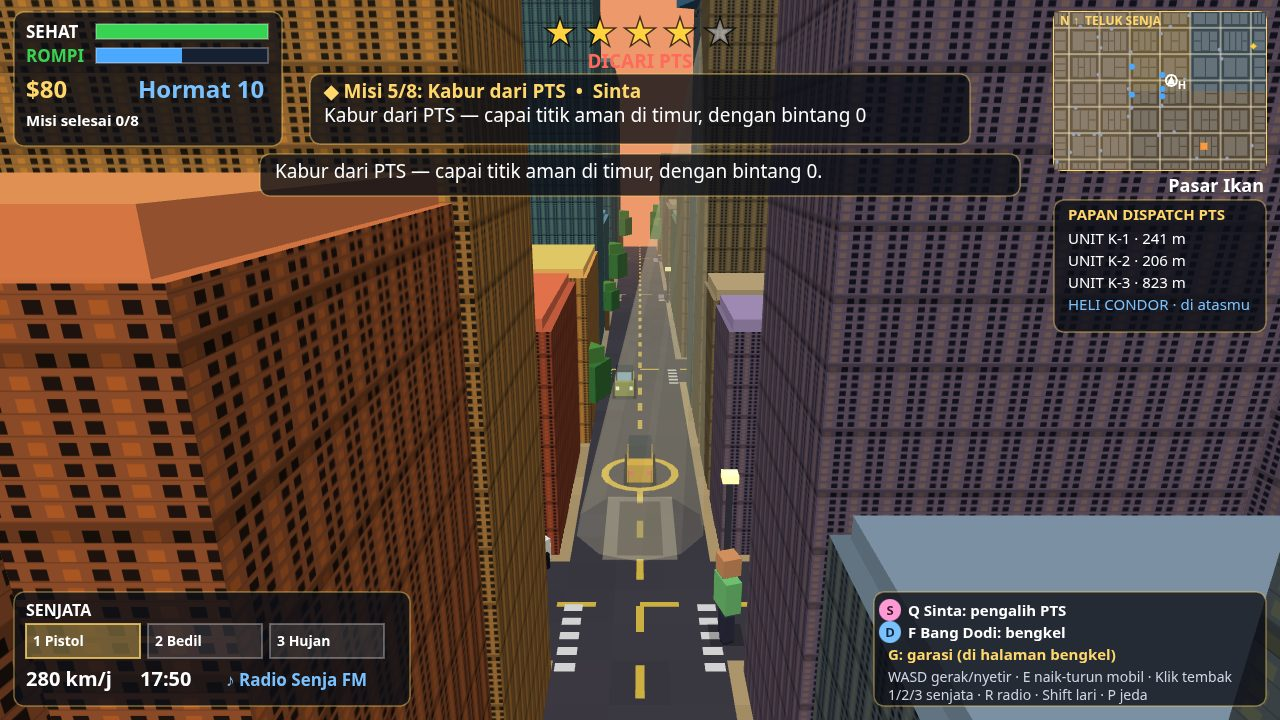
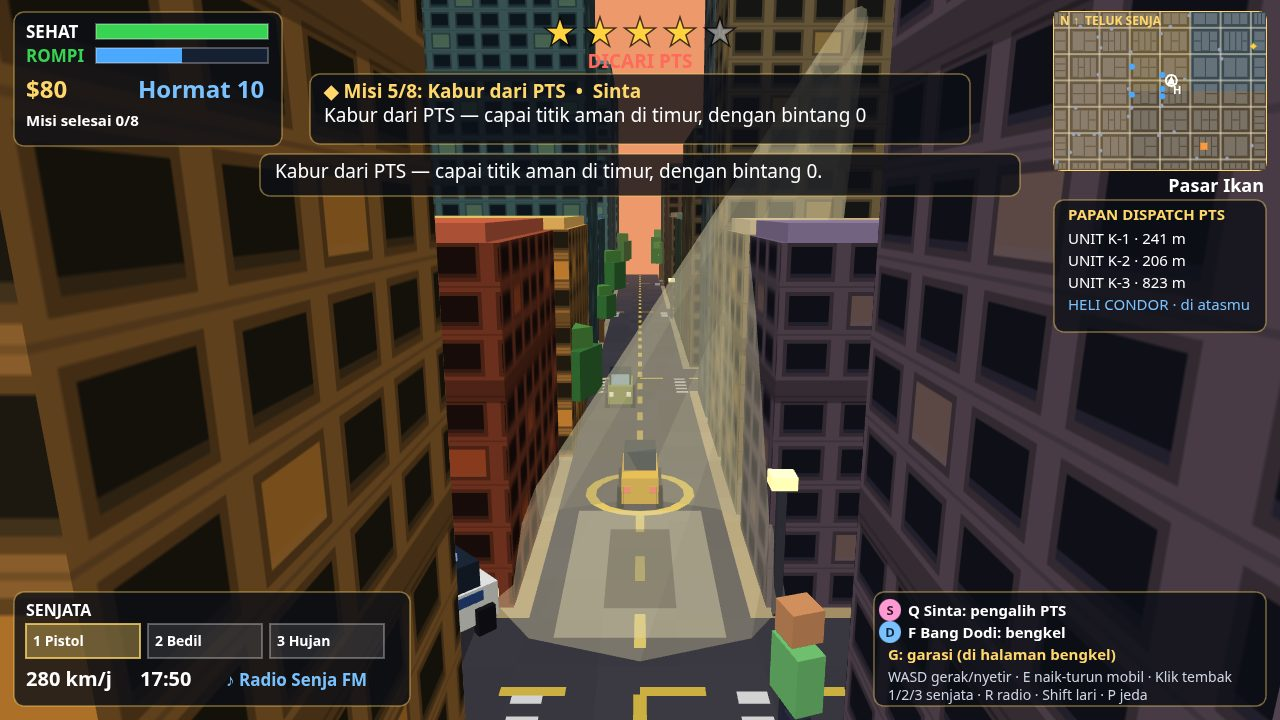
Camera framing polish: closer third-person camera, larger windows, visible searchlight cone

diff --git a/game/src/gl3d.js b/game/src/gl3d.js
@@ -148,10 +148,12 @@ export class Geo {
     const topColor = opt.top || shade(color, 1.18);
     const sideColor = opt.sides || color;
     // Window repeats are per face, from that face's real size, so the
-    // grid stays square on every side of a building.
-    const uvU = opt.tex ? (sx * SCALE) / 26 : 1;
-    const uvX = opt.tex ? (sz * SCALE) / 26 : 1;
-    const uvV = opt.tex ? (sy * SCALE) / 26 : 1;
+    // grid stays square on every side of a building. One texture tile
+    // spans 130 world units, so a window reads about 32 world units
+    // wide — building scale, not a dot grid.
+    const uvU = opt.tex ? (sx * SCALE) / 130 : 1;
+    const uvX = opt.tex ? (sz * SCALE) / 130 : 1;
+    const uvV = opt.tex ? (sy * SCALE) / 130 : 1;
     const tex = opt.tex ? 1 : 0;
     const emis = opt.emis || 0; const alpha = opt.alpha ?? 1;
     const uvZ = [[0, 0], [uvU, 0], [uvU, uvV], [0, uvV]];
@@ -244,20 +246,27 @@ function makeFacadeTexture(gl) {
   const cv = document.createElement('canvas');
   cv.width = 256; cv.height = 256;
   const ctx = cv.getContext('2d');
-  ctx.fillStyle = '#cfc8bb';
+  ctx.fillStyle = '#c9c0ae';
   ctx.fillRect(0, 0, 256, 256);
-  // Deterministic window grid: 6 columns x 8 rows, some lit.
-  for (let r = 0; r < 8; r++) {
-    for (let c = 0; c < 6; c++) {
-      const lit = ((c * 7 + r * 3) % 3) === 0;
+  // Large windows: 4 columns x 5 rows per tile. One tile spans a wide
+  // facade (see Geo.box UV repeats), so windows read at building scale
+  // instead of dissolving into a dot grid.
+  for (let r = 0; r < 5; r++) {
+    for (let c = 0; c < 4; c++) {
+      const lit = (c === 1 && r === 1) || (c === 2 && r === 3);
+      ctx.fillStyle = '#8d867a';
+      ctx.fillRect(6 + c * 62, 4 + r * 48, 48, 38);
       ctx.fillStyle = lit ? '#ffe9a8' : '#2b313c';
-      ctx.fillRect(10 + c * 42, 8 + r * 31, 24, 19);
+      ctx.fillRect(10 + c * 62, 8 + r * 48, 40, 30);
+      ctx.fillStyle = 'rgba(255,255,255,0.25)';
+      ctx.fillRect(10 + c * 62, 8 + r * 48, 40, 4);
     }
-    ctx.fillStyle = 'rgba(0,0,0,0.18)';
-    ctx.fillRect(0, r * 32, 256, 2);
+    ctx.fillStyle = 'rgba(0,0,0,0.16)';
+    ctx.fillRect(0, r * 48 + 46, 256, 2);
   }
-  ctx.fillStyle = 'rgba(0,0,0,0.25)';
-  ctx.fillRect(0, 224, 256, 32);
+  // Darker ground-floor band.
+  ctx.fillStyle = 'rgba(0,0,0,0.28)';
+  ctx.fillRect(0, 232, 256, 24);
   const tex = gl.createTexture();
   gl.bindTexture(gl.TEXTURE_2D, tex);
   gl.texImage2D(gl.TEXTURE_2D, 0, gl.RGBA, gl.RGBA, gl.UNSIGNED_BYTE, cv);
@@ -326,12 +335,16 @@ function buildStatic(city) {
     const w3 = b.w / SCALE; const d3 = b.h / SCALE;
     const h3 = 2 + b.height * 3.0;
     const base = hexRgb(b.color);
+    // Vary facade brightness per building so neighbouring blocks do
+    // not read as one flat, identical wall.
+    const tint = 0.86 + hash2(b.x | 0, b.y | 0) * 0.26;
+    const tinted = [base[0] * tint, base[1] * tint, base[2] * tint];
     const cx = wx(b.x + b.w / 2); const cz = wz(b.y + b.h / 2);
-    geo.box(cx, h3 / 2, cz, w3, h3, d3, 0, base, {
-      tex: true, uvU: Math.max(1, Math.round(b.w / 26)), uvV: Math.max(1, Math.round((h3 * SCALE) / 26)),
+    geo.box(cx, h3 / 2, cz, w3, h3, d3, 0, tinted, {
+      tex: true, uvU: Math.max(1, Math.round(b.w / 130)), uvV: Math.max(1, Math.round((h3 * SCALE) / 130)),
     });
     // Roof parapet: a thin lighter slab on top.
-    geo.box(cx, h3 + 0.12, cz, w3 * 0.96, 0.24, d3 * 0.96, 0, shade(base, 1.25), {});
+    geo.box(cx, h3 + 0.12, cz, w3 * 0.96, 0.24, d3 * 0.96, 0, shade(tinted, 1.25), {});
   }
   // Props.
   for (const pr of city.props) {
@@ -388,9 +401,9 @@ function cameraTarget(state) {
   const heading = driving ? p.car.angle : p.angle;
   return {
     heading,
-    dist: driving ? 17 : 13,
-    height: driving ? 8.4 : 6.6,
-    ahead: driving ? 6.5 : 4,
+    dist: driving ? 12.5 : 9.5,
+    height: driving ? 5.4 : 4.2,
+    ahead: driving ? 5 : 3.5,
   };
 }
 
@@ -426,7 +439,7 @@ function instantCam(state, aspect) {
   const fx = Math.cos(t.heading); const fz = Math.sin(t.heading);
   const px = wx(p.x); const pz = wz(p.y);
   const eye = [px - fx * t.dist, t.height, pz - fz * t.dist];
-  const center = [px + fx * t.ahead, 1.3, pz + fz * t.ahead];
+  const center = [px + fx * t.ahead, 1.6, pz + fz * t.ahead];
   const view = matLookAt(eye, center, [0, 1, 0]);
   const proj = matPerspective((55 * Math.PI) / 180, aspect, 0.5, 500);
   return { eye, center, view, proj, vp: matMul(proj, view), yaw: t.heading };
@@ -595,24 +608,29 @@ function drawCharacter(geo, trans, x, y, angle, shirt, skin, opt = {}) {
 
 function drawHelicopter(geo, trans, h, time, camRight) {
   const cx = wx(h.x); const cz = wz(h.y);
-  const alt = 13;
+  // Alt 10.5 with the hover ahead/side keeps the searchlight cone
+  // clearly visible; lower altitudes hid the body behind the HUD
+  // banner anyway and washed the frame out with the cone.
+  const alt = 10.5;
+  const k = 1.35; // body scale
   const body = [0.22, 0.40, 0.52];
-  geo.box(cx, alt, cz, 2.4, 0.85, 1.0, h.angle * 0.15, body, {});
-  geo.box(cx - Math.cos(h.angle * 0.15) * 1.9, alt + 0.1, cz - Math.sin(h.angle * 0.15) * 1.9, 1.5, 0.3, 0.3, h.angle * 0.15, body, {});
-  geo.box(cx + Math.cos(h.angle * 0.15) * 0.7, alt + 0.1, cz + Math.sin(h.angle * 0.15) * 0.7, 0.5, 0.5, 0.7, h.angle * 0.15, [0.55, 0.75, 0.88], {});
+  geo.box(cx, alt, cz, 2.4 * k, 0.85 * k, 1.0 * k, h.angle * 0.15, body, {});
+  geo.box(cx - Math.cos(h.angle * 0.15) * 1.9 * k, alt + 0.1, cz - Math.sin(h.angle * 0.15) * 1.9 * k, 1.5 * k, 0.3 * k, 0.3 * k, h.angle * 0.15, body, {});
+  geo.box(cx + Math.cos(h.angle * 0.15) * 0.7 * k, alt + 0.1, cz + Math.sin(h.angle * 0.15) * 0.7 * k, 0.5 * k, 0.5 * k, 0.7 * k, h.angle * 0.15, [0.55, 0.75, 0.88], {});
   // Rotor, spinning.
   const ra = h.rotor;
-  geo.box(cx, alt + 0.62, cz, 3.4, 0.07, 0.14, ra, [0.1, 0.1, 0.12], {});
-  geo.box(cx, alt + 0.62, cz, 0.14, 0.07, 3.4, ra, [0.1, 0.1, 0.12], {});
+  geo.box(cx, alt + 0.62 * k, cz, 3.4 * k, 0.07, 0.14, ra, [0.1, 0.1, 0.12], {});
+  geo.box(cx, alt + 0.62 * k, cz, 0.14, 0.07, 3.4 * k, ra, [0.1, 0.1, 0.12], {});
   // Skids.
-  geo.box(cx - 0.3, alt - 0.62, cz, 1.6, 0.08, 0.08, h.angle * 0.15, [0.15, 0.15, 0.17], {});
-  geo.box(cx + 0.3, alt - 0.62, cz, 1.6, 0.08, 0.08, h.angle * 0.15, [0.15, 0.15, 0.17], {});
-  // Searchlight cone + ground pool.
+  geo.box(cx - 0.3 * k, alt - 0.62 * k, cz, 1.6 * k, 0.08, 0.08, h.angle * 0.15, [0.15, 0.15, 0.17], {});
+  geo.box(cx + 0.3 * k, alt - 0.62 * k, cz, 1.6 * k, 0.08, 0.08, h.angle * 0.15, [0.15, 0.15, 0.17], {});
+  // Searchlight cone + ground pool: wider and brighter so the beam
+  // reads against the street, not just as a faint slant.
   const lx = wx(h.lightX); const lz = wz(h.lightY);
-  trans.cone([cx, alt - 0.3, cz], [lx, 0.1, lz], 1.5, [1, 0.96, 0.78], 0.22, 10);
+  trans.cone([cx, alt - 0.3, cz], [lx, 0.1, lz], 2.4, [1, 0.96, 0.78], 0.34, 10);
   trans.quad(
-    [lx - 1.4, 0.08, lz - 0.8], [lx + 1.4, 0.08, lz - 0.8], [lx + 1.4, 0.08, lz + 0.8], [lx - 1.4, 0.08, lz + 0.8],
-    [0, 1, 0], [1, 0.96, 0.78], [[0, 0], [1, 0], [1, 1], [0, 1]], 0, 0, 0.35);
+    [lx - 1.9, 0.08, lz - 1.1], [lx + 1.9, 0.08, lz - 1.1], [lx + 1.9, 0.08, lz + 1.1], [lx - 1.9, 0.08, lz + 1.1],
+    [0, 1, 0], [1, 0.96, 0.78], [[0, 0], [1, 0], [1, 1], [0, 1]], 0, 0, 0.45);
   // Shadow blob on the ground.
   trans.quad(
     [lx - 1.2, 0.06, lz - 0.5], [lx + 1.2, 0.06, lz - 0.5], [lx + 1.2, 0.06, lz + 0.5], [lx - 1.2, 0.06, lz + 0.5],

diff --git a/game/src/police.js b/game/src/police.js
@@ -90,11 +90,11 @@ export function updatePolice(state, dt) {
     }
     const h = state.helicopter;
     h.rotor += dt * 30;
-    // Hover well ahead of the player, offset to one side, so the
-    // helicopter body (not just its cone) stays in the third-person frame.
+    // Hover ahead of the player, offset to one side, so the
+    // searchlight cone reads in the third-person frame.
     const heading = player.car ? player.car.angle : player.angle;
-    const tx = player.x + Math.cos(heading) * 380 - Math.sin(heading) * 90;
-    const ty = player.y + Math.sin(heading) * 380 + Math.cos(heading) * 90;
+    const tx = player.x + Math.cos(heading) * 280 - Math.sin(heading) * 200;
+    const ty = player.y + Math.sin(heading) * 280 + Math.cos(heading) * 200;
     h.x += (tx - h.x) * Math.min(1, dt * 2.8);
     h.y += (ty - h.y) * Math.min(1, dt * 2.8);
     h.lightX += (player.x - h.lightX) * Math.min(1, dt * 4);
